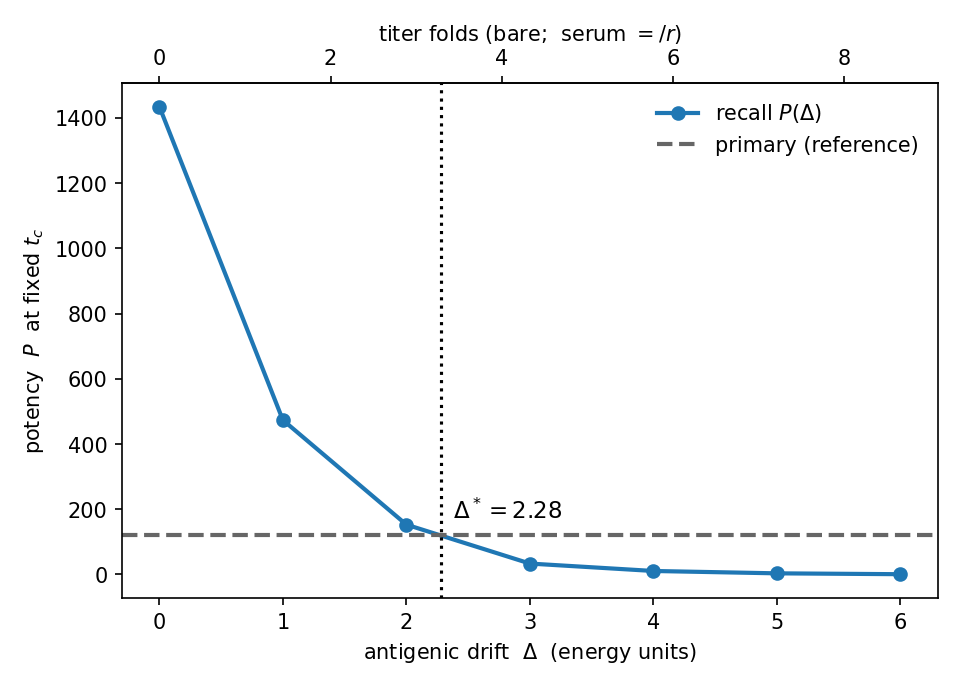
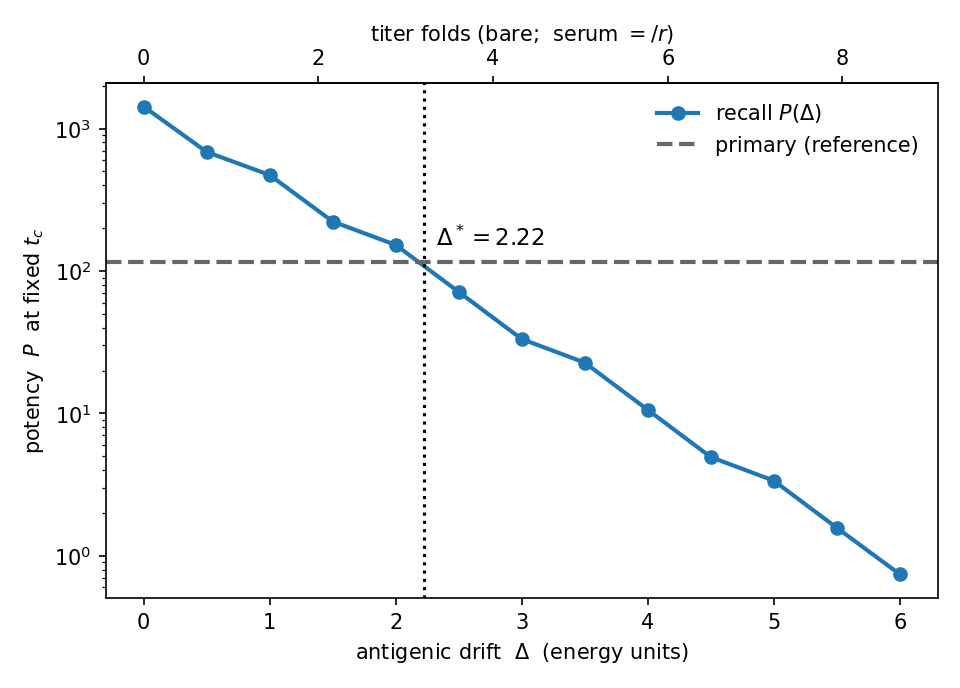
update iMac 17.08.26

diff --git a/codes/python/antigenic_evolution/drift_scan.py b/codes/python/antigenic_evolution/drift_scan.py
@@ -20,19 +20,28 @@ import matplotlib.pyplot as plt
 # --- point this at wherever mf_lib.py lives ---
 sys.path.append(os.path.join(os.path.dirname(__file__), '../../library'))
 import mf_lib as mf
+import mf_plotting as mfp
 
 # Reuse the exact BASE parameters from the driver so the physics matches.
 import run_meanfield as R
 
 
 # ---- scan knobs ----
-DELTAS = np.arange(0.0, 6.01, 1.0)   # coarse first pass; refine near crossover
+DELTAS = np.arange(0.0, 6.01, 0.5)   # coarse first pass; refine near crossover
 R_MATURATION = 0.5           # serum fragility factor r (<1); external input
 NU_NSTAR_ANALYTIC = None     # set to your analytic nu*N* to print the comparison
 T_SIM = 5.0                  # only need to clear t_c (~3.5); 5 gives margin
 MODE = 'grid'
 MAX_STEP = 0.05              # cap LSODA micro-steps on the stiff recall solves
 
+CONFIG = dict(
+    # --- output / figures ---
+    figures=['NA_shared', 'Z_shared', 'pb_shared', 'DG_shared', 'n0_shared', 'fig4d', 'P_pi', 'per_run'],
+    #   available: 'NA_shared', 'Z_shared', 'pb_shared', 'per_run', 'h0_extras'
+    outroot='/Users/robertomorantovar/Library/CloudStorage/Dropbox/_Documents/Research/Projects/Immune_System/_Repository/Figures/antigenic_evolution/meanfield/',                  # base directory for saved PDFs
+    usetex=True,                       # set True if you have a LaTeX toolchain
+    show=False,                         # plt.show() at the end instead of/along saving
+)
 
 def shift_seed(seed, delta, p, weights):
     """Rigid drift E -> E + delta with CELL-COUNT conservation.
@@ -69,7 +78,7 @@ def run_recall(p_rec, seed):
                              mode=MODE, memory_seed=seed, max_step=MAX_STEP)
 
 
-def main():
+def main(cfg=CONFIG):
     t_start = time.time()
 
     # 1. primary, once (drift-invariant reference)
@@ -172,14 +181,15 @@ def main():
                     textcoords='offset points', fontsize=11)
     ax.set_xlabel(r'antigenic drift  $\Delta$  (energy units)')
     ax.set_ylabel(r'potency  $P$  at fixed $t_c$')
+    ax.set_yscale('log')
     ax.legend(frameon=False)
     secax = ax.secondary_xaxis('top',
                                functions=(lambda d: d/np.log(2),
                                           lambda f: f*np.log(2)))
     secax.set_xlabel('titer folds (bare;  serum $= /r$)')
-    fig.tight_layout()
-    out = 'drift_crossover.png'
-    fig.savefig(out, dpi=150)
+    out = os.path.join(cfg['outroot'], 'exploration')
+    os.makedirs(out, exist_ok=True)
+    fig.savefig(os.path.join(out, 'drift_crossover.png'), dpi=150)
     print(f"saved: {out}")
 
 

diff --git a/codes/library/mf_plotting.py b/codes/library/mf_plotting.py
@@ -11,7 +11,7 @@ Holds everything that used to be copy-pasted across the run scripts:
 
 The driver composes these; nothing here runs a simulation.
 """
-
+import os, sys
 import numpy as np
 import matplotlib.pyplot as plt
 from cycler import cycler
@@ -107,6 +107,20 @@ def style_log_axis(ax, T, ylim=None, xlim=None, labelsize=30, hide_xticklabels=T
     ax.tick_params(axis='y', labelsize=labelsize)
     ax.tick_params(axis='x', labelsize=labelsize)
 
+
+def _experiment_tag(cfg):
+    """Top-level folder describing the run: 'sweep_<param>' or 'single_run'."""
+    name = cfg['sweep'][0]
+    return f'sweep_{name}' if name is not None else 'single_run'
+
+
+def _outdir(cfg, *parts):
+    # Everything lands under outroot/<experiment_tag>/... so the folder itself
+    # records whether the figures came from a sweep or a single run.
+    path = os.path.join(cfg['outroot'], _experiment_tag(cfg),
+                        *[str(x) for x in parts])
+    os.makedirs(path, exist_ok=True)
+    return path
 
 # ============================================================
 # Per-run panels (each takes an existing ax + a result dict)
